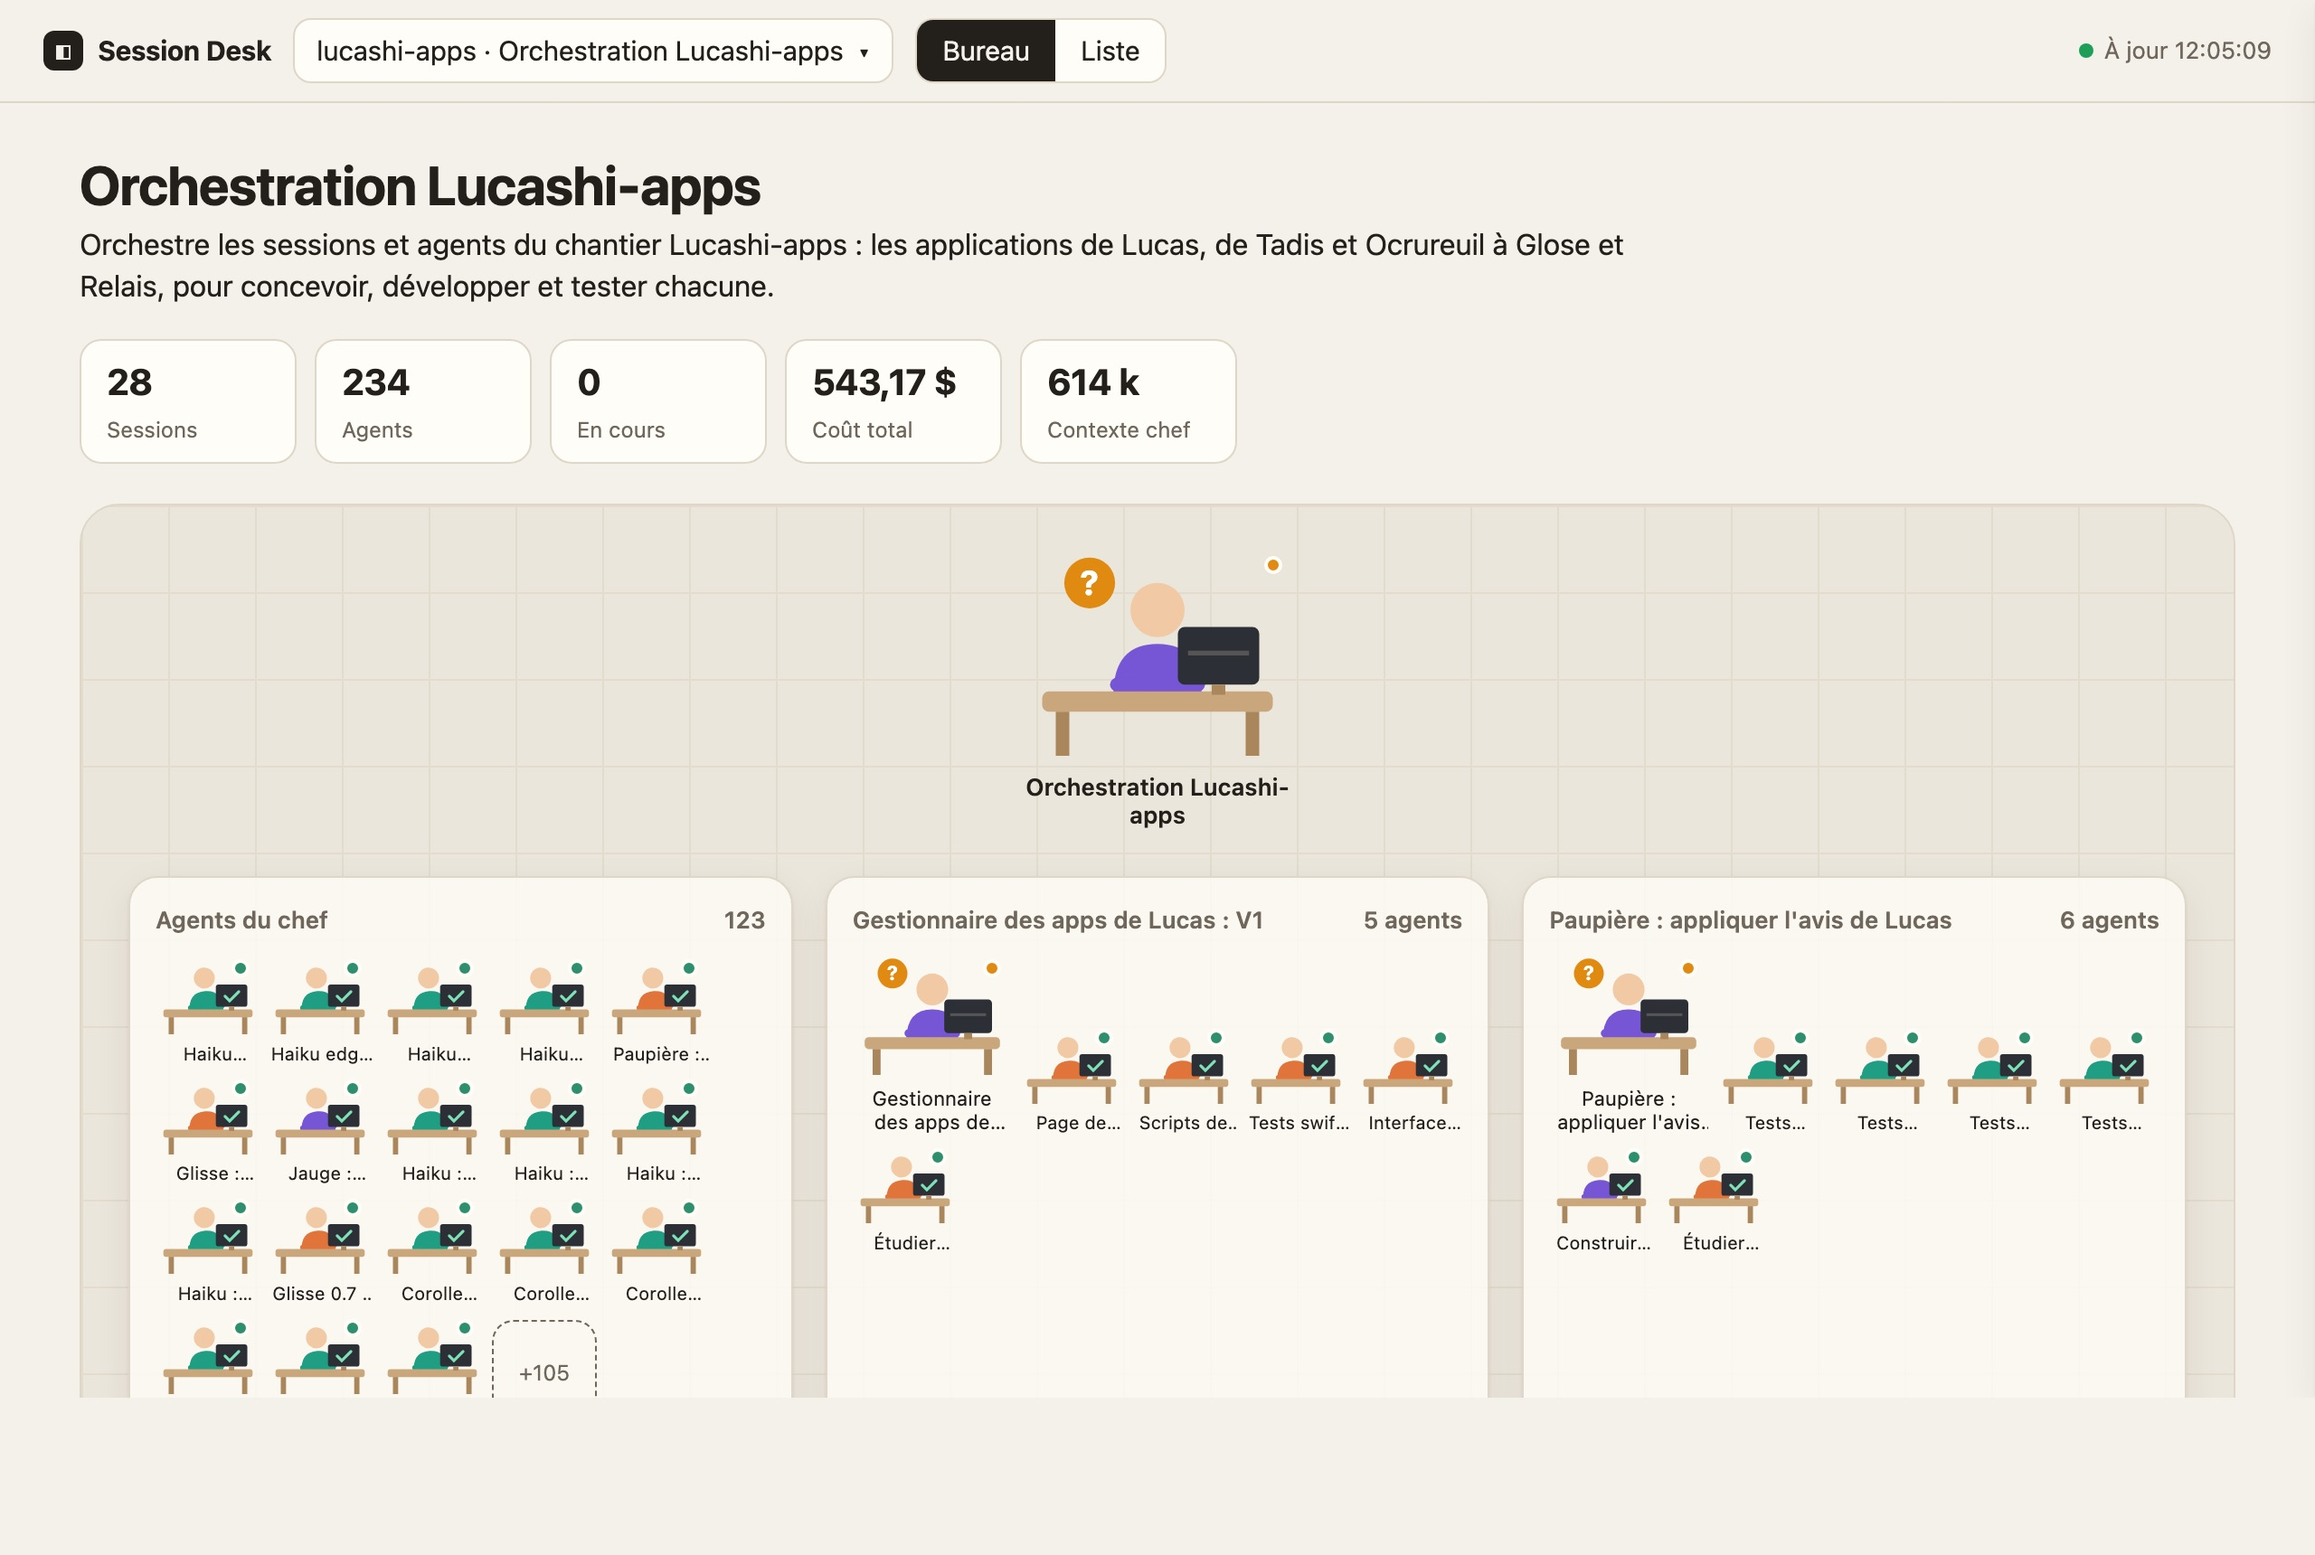
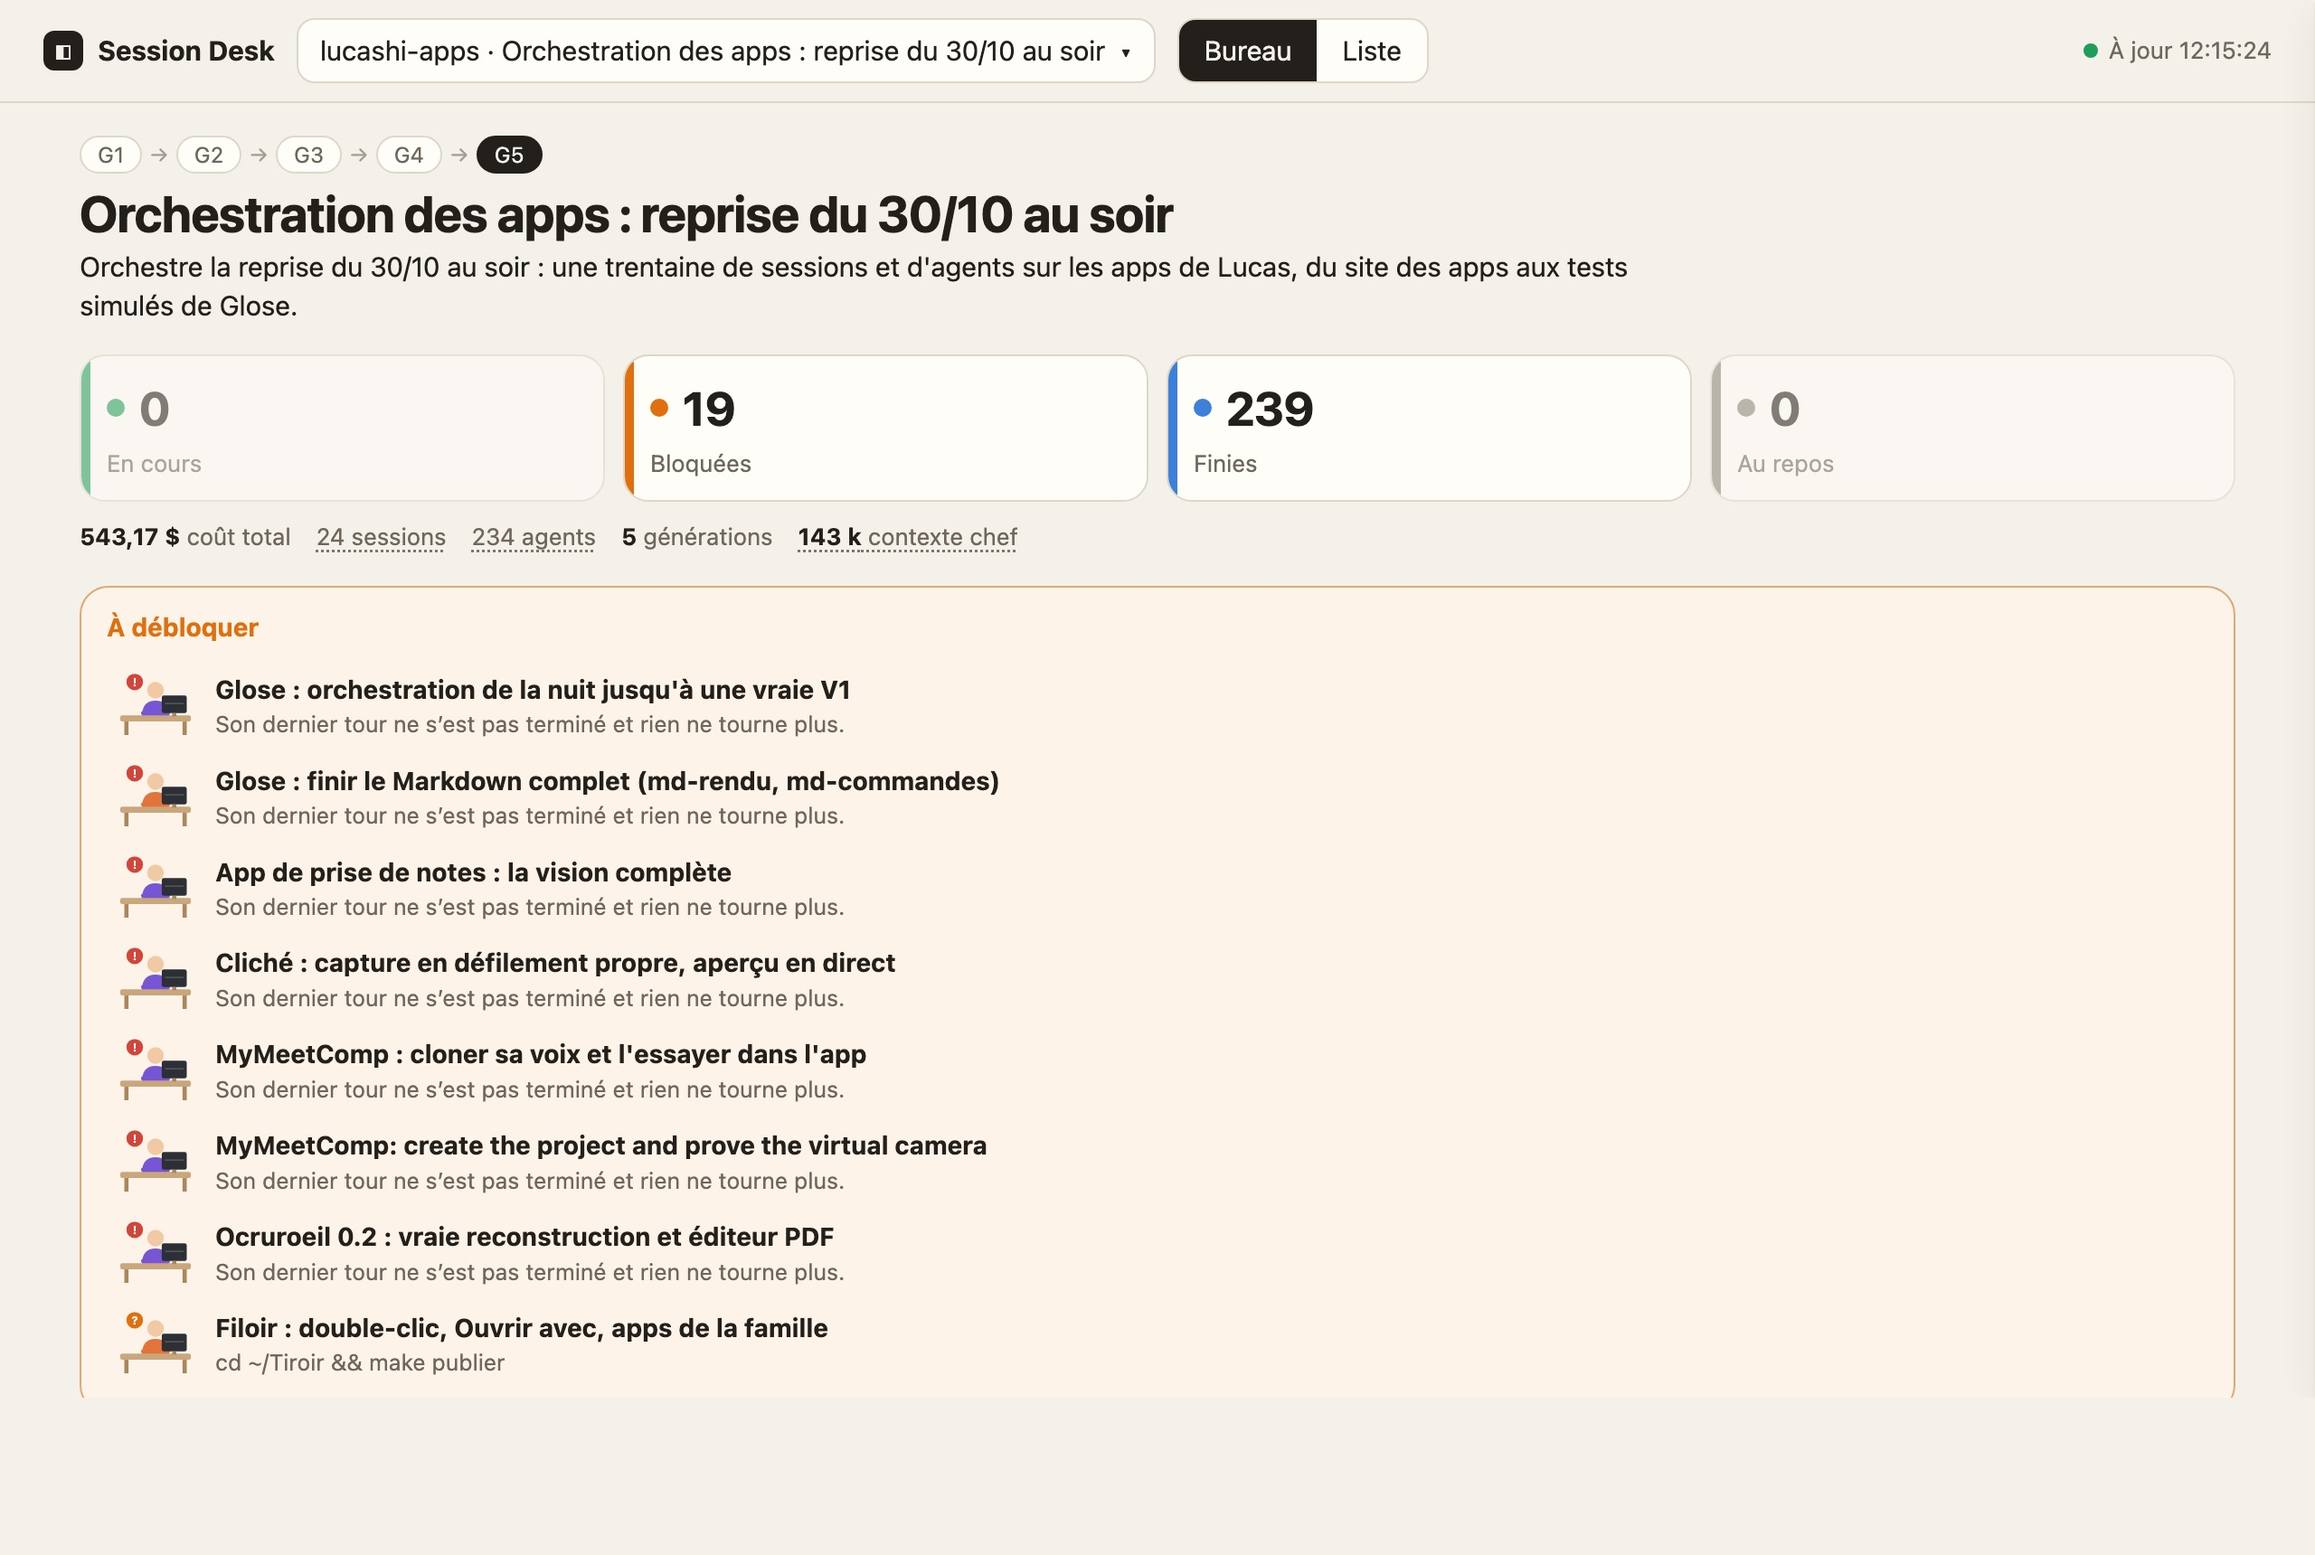
lucashi-apps : la page de l orchestrateur montre sessiondesk 1.1, une orchestration relancee lue en une lignee de 5 generations

diff --git a/public/orchestrateur/index.html b/public/orchestrateur/index.html
@@ -554,14 +554,14 @@ footer a{color:var(--ink2)}
 <section id="sessiondesk"><div class="wrap">
   <p class="eyebrow">Nouveau · /sessiondesk</p>
   <h2 class="rv">/sessiondesk : le bureau de votre orchestration.</h2>
-  <p class="lead rv">Une page s’ouvre : la session qui dirige au centre, ses sous-sessions et ses agents à leur poste, qui travaille, qui a fini, qui attend une réponse. « Voir plus » raconte en français ce que chacun a fait et rendu. Le menu en haut passe d’une orchestration à l’autre, sur tous vos projets.</p>
-  <img class="rv" src="sessiondesk.jpg" width="2560" height="1720" loading="lazy" alt="La page Session Desk : l’orchestration du site, 28 sessions, 234 agents, chacun à son bureau" style="width:100%;height:auto;border-radius:18px;border:1px solid var(--line);margin:28px 0 8px">
+  <p class="lead rv">Une page s’ouvre : la session qui dirige au centre, ses sous-sessions et ses agents à leur poste, qui travaille, qui a fini, qui attend une réponse. « Voir plus » raconte en français ce que chacun a fait et rendu. Quand l’orchestration est relancée dans une nouvelle session, la page la suit : une seule lignée, génération après génération, coûts additionnés. Le menu en haut passe d’une orchestration à l’autre, sur tous vos projets.</p>
+  <img class="rv" src="sessiondesk.jpg" width="2560" height="1720" loading="lazy" alt="La page Session Desk : l’orchestration des apps, cinq générations, ce qui est bloqué en premier" style="width:100%;height:auto;border-radius:18px;border:1px solid var(--line);margin:28px 0 8px">
   <div class="tuiles rv">
     <div class="tuile"><b>0,45 s</b><span>pour lire 28 sessions et 234 agents, sans modèle</span></div>
     <div class="tuile"><b>Haiku</b><span>seulement pour le récit « voir plus », gardé en cache tant que rien ne change</span></div>
-    <div class="tuile"><b>15 s</b><span>la page se relit seule ; deux vues : Bureau et Liste</span></div>
+    <div class="tuile"><b>5 générations</b><span>d’une même orchestration relancée, lues comme une seule lignée</span></div>
   </div>
-  <p class="src">Capture réelle de la page sur l’orchestration de ce site (02/11/2026). Temps de calcul : message du commit e0ca6f8 du dépôt du skill. Tout reste sur le Mac : la page est servie en local (127.0.0.1).</p>
+  <p class="src">Capture réelle de /sessiondesk 1.1 sur l’orchestration des apps (02/11/2026). Temps de calcul : commit e0ca6f8 du dépôt du skill ; lignées : commit 2b80279 (21 relances reliées sur 374 sessions). La page se relit seule toutes les 15 s. Tout reste sur le Mac : la page est servie en local (127.0.0.1).</p>
 </div></section>
 
 <section id="accueil"><div class="wrap">
